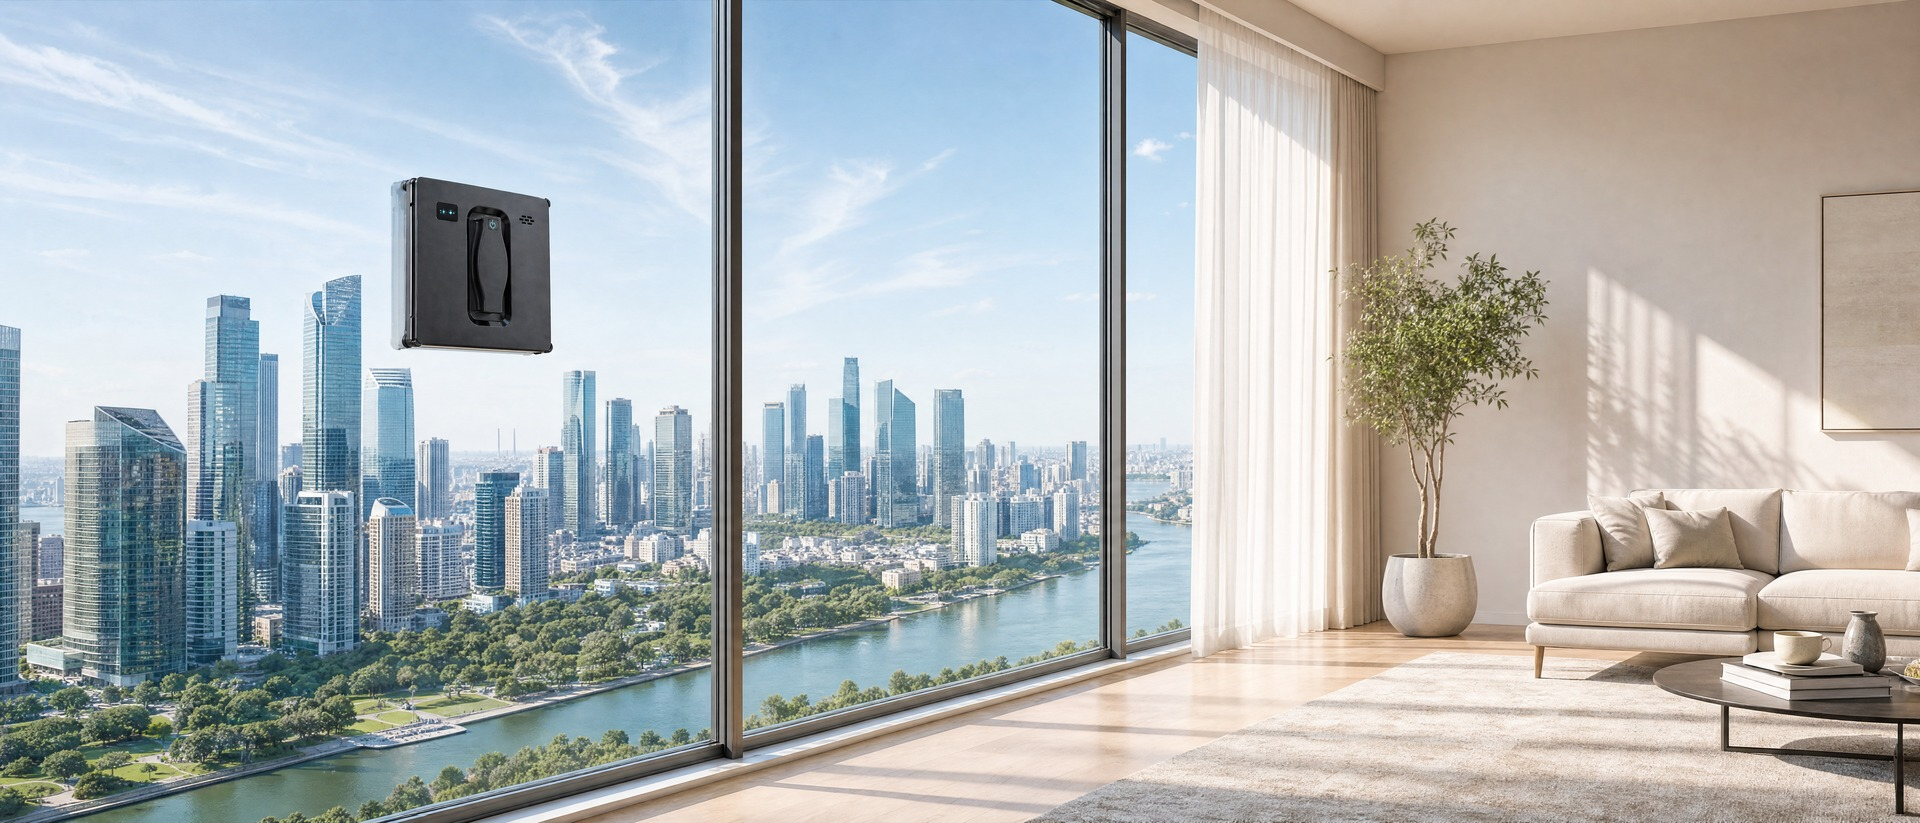
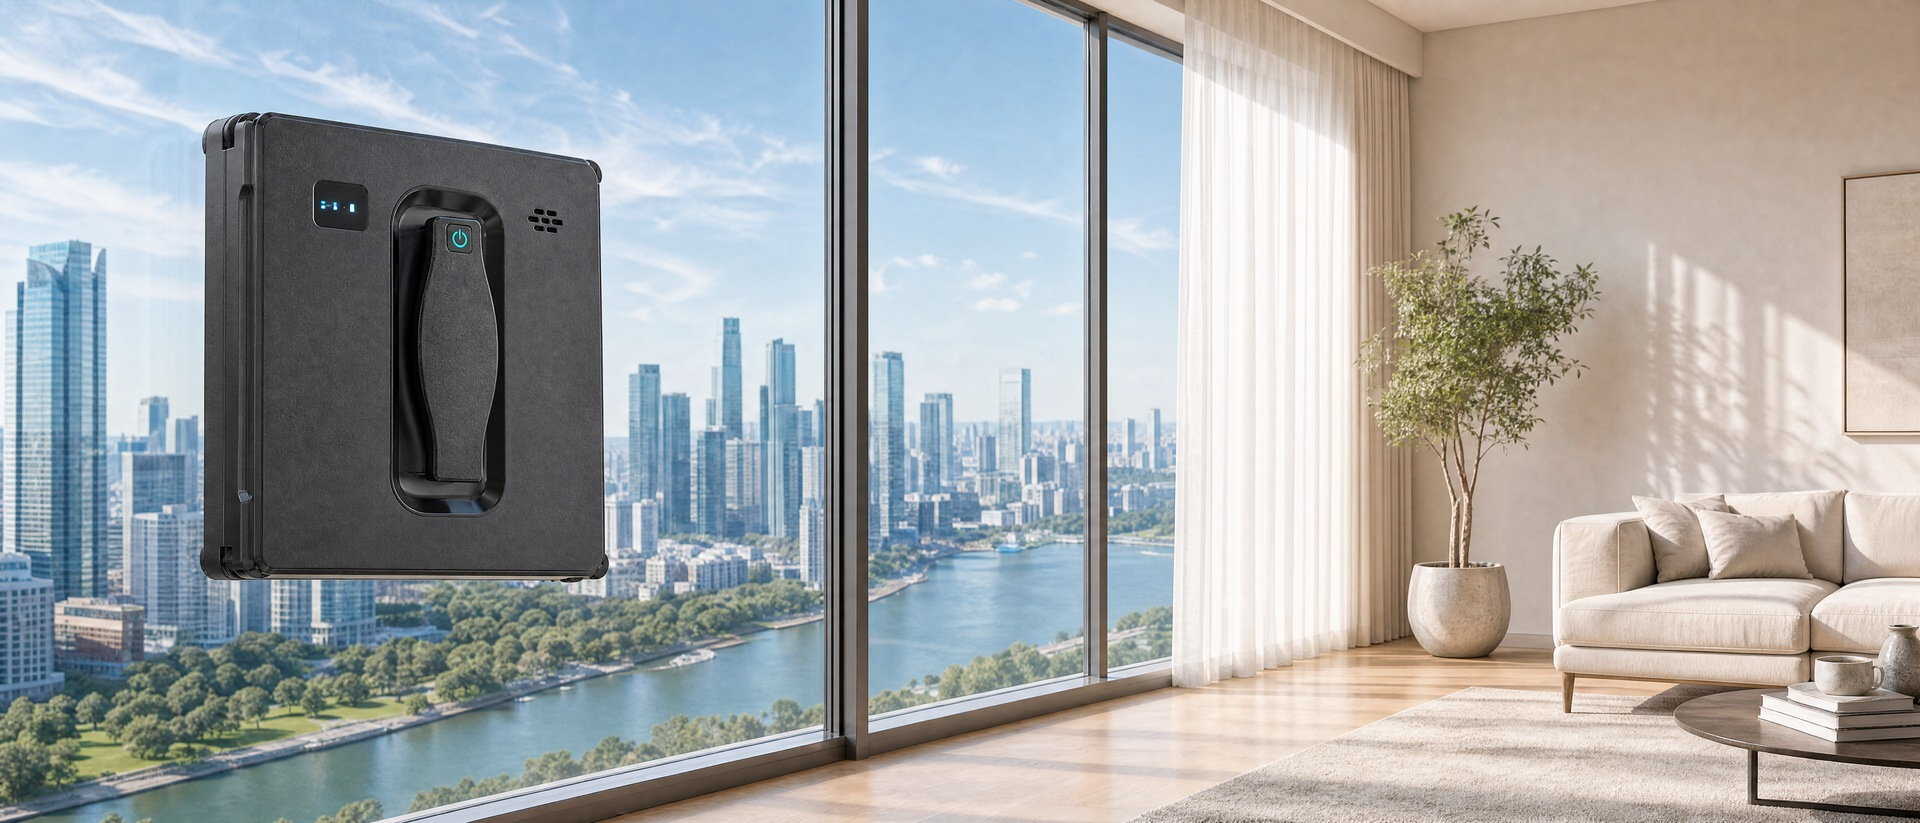
fix(slides): слайд 3 ПК - робот-мойщик крупным планом (был мелкий вдали)
Гена: робот мелкий на большом стекле, приближали только мобильную версию.
Перегенерил (gpt_image_2 21:9 4k): робот close-up, ~24% ширины / 60% высоты,
видно фактуру/ручку/индикаторы, верх на 12% от края. Вид города + место под
текст сохранены. Ресайз 1920x823 без кропа/апскейла. В тему Shopify + ?v= бамп.

diff --git a/preview-live.html b/preview-live.html
@@ -57,40 +57,40 @@
 <section class="glide glide-hero" data-glide-hero data-autoplay-ms="6000" style="background:#0b1418">
   <div class="glide-slides" data-glide-track>
       <div class="glide-slide is-active" data-glide-slide>
-        <div class="glide-slide-bg" style="--img:url('/slides/vacstation.jpg?v=1788422278');--img-m:url('/slides/vacstation-m.jpg?v=1788422278')"></div>
-        <img class="glide-slide-img glide-slide-img--m" src="/slides/vacstation-m.jpg?v=1788422278" alt="" loading="lazy">
+        <div class="glide-slide-bg" style="--img:url('/slides/vacstation.jpg?v=1788423075');--img-m:url('/slides/vacstation-m.jpg?v=1788423075')"></div>
+        <img class="glide-slide-img glide-slide-img--m" src="/slides/vacstation-m.jpg?v=1788423075" alt="" loading="lazy">
         <div class="glide-wrap"><div class="glide-slide-inner">
           <span class="glide-eyebrow">GlideHome Vac Station</span><h2>It empties itself. And washes its own mops</h2><p>Auto-empty, hot-water mop wash and dry — weeks of hands-off cleaning.</p>
           <div class="glide-slide-cta"><a class="glide-btn glide-btn--primary glide-btn--lg" href="#">Shop Vac Station</a><a class="glide-btn glide-btn--on-dark" href="#">See the station</a></div>
         </div></div>
       </div>
       <div class="glide-slide" data-glide-slide>
-        <div class="glide-slide-bg" style="--img:url('/slides/vac.jpg?v=1788422278');--img-m:url('/slides/vac-m.jpg?v=1788422278')"></div>
-        <img class="glide-slide-img glide-slide-img--m" src="/slides/vac-m.jpg?v=1788422278" alt="" loading="lazy">
+        <div class="glide-slide-bg" style="--img:url('/slides/vac.jpg?v=1788423075');--img-m:url('/slides/vac-m.jpg?v=1788423075')"></div>
+        <img class="glide-slide-img glide-slide-img--m" src="/slides/vac-m.jpg?v=1788423075" alt="" loading="lazy">
         <div class="glide-wrap"><div class="glide-slide-inner">
           <span class="glide-eyebrow">GlideHome Vac Slim</span><h2>Now GlideHome does your floors too</h2><p>A slim robot vacuum that sweeps, vacuums and mops in one pass. Maps the room, avoids obstacles.</p>
           <div class="glide-slide-cta"><a class="glide-btn glide-btn--primary glide-btn--lg" href="#">Shop the vacuum</a></div>
         </div></div>
       </div>
       <div class="glide-slide" data-glide-slide>
-        <div class="glide-slide-bg" style="--img:url('/slides/windowpro.jpg?v=1788422278');--img-m:url('/slides/windowpro-m.jpg?v=1788422278')"></div>
-        <img class="glide-slide-img glide-slide-img--m" src="/slides/windowpro-m.jpg?v=1788422278" alt="" loading="lazy">
+        <div class="glide-slide-bg" style="--img:url('/slides/windowpro.jpg?v=1788423075');--img-m:url('/slides/windowpro-m.jpg?v=1788423075')"></div>
+        <img class="glide-slide-img glide-slide-img--m" src="/slides/windowpro-m.jpg?v=1788423075" alt="" loading="lazy">
         <div class="glide-wrap"><div class="glide-slide-inner">
           <span class="glide-eyebrow">GlideHome Window Pro</span><h2>Full-height glass, cleaned on a planned path</h2><p>AI route mapping, edge detection and a climbing-grade safety line — it holds the pane and never misses a spot.</p>
           <div class="glide-slide-cta"><a class="glide-btn glide-btn--primary glide-btn--lg" href="#">Explore window robots</a></div>
         </div></div>
       </div>
       <div class="glide-slide" data-glide-slide>
-        <div class="glide-slide-bg" style="--img:url('/slides/stickvac.jpg?v=1788422278');--img-m:url('/slides/stickvac-m.jpg?v=1788422278')"></div>
-        <img class="glide-slide-img glide-slide-img--m" src="/slides/stickvac-m.jpg?v=1788422278" alt="" loading="lazy">
+        <div class="glide-slide-bg" style="--img:url('/slides/stickvac.jpg?v=1788423075');--img-m:url('/slides/stickvac-m.jpg?v=1788423075')"></div>
+        <img class="glide-slide-img glide-slide-img--m" src="/slides/stickvac-m.jpg?v=1788423075" alt="" loading="lazy">
         <div class="glide-wrap"><div class="glide-slide-inner">
           <span class="glide-eyebrow">GlideHome Stick V400</span><h2>Cordless power that empties itself</h2><p>190 AW suction, 50 minutes of runtime and a self-emptying dock — grab it and go, put it back clean.</p>
           <div class="glide-slide-cta"><a class="glide-btn glide-btn--primary glide-btn--lg" href="#">Shop Stick V400</a></div>
         </div></div>
       </div>
       <div class="glide-slide" data-glide-slide>
-        <div class="glide-slide-bg" style="--img:url('/slides/antimite.jpg?v=1788422278');--img-m:url('/slides/antimite-m.jpg?v=1788422278')"></div>
-        <img class="glide-slide-img glide-slide-img--m" src="/slides/antimite-m.jpg?v=1788422278" alt="" loading="lazy">
+        <div class="glide-slide-bg" style="--img:url('/slides/antimite.jpg?v=1788423075');--img-m:url('/slides/antimite-m.jpg?v=1788423075')"></div>
+        <img class="glide-slide-img glide-slide-img--m" src="/slides/antimite-m.jpg?v=1788423075" alt="" loading="lazy">
         <div class="glide-wrap"><div class="glide-slide-inner">
           <span class="glide-eyebrow">GlideHome Mite Pro</span><h2>A deeper clean for the bed you spend a third of your life in</h2><p>Tapping, UV, 15,500 Pa suction and warm-air drying — with a live dust-mite readout on the display.</p>
           <div class="glide-slide-cta"><a class="glide-btn glide-btn--primary glide-btn--lg" href="#">Shop Mite Pro</a></div>
@@ -102,13 +102,13 @@
   <div class="glide-dots" data-glide-dots></div>
 </section>
 <section class="glide glide-cats-section"><div class="glide-wrap"><div class="glide-cats">
-      <a class="glide-cat" href="#"><div class="glide-cat-art" style="background-image:url('cats/window.jpg?v=1788422278')"></div>
+      <a class="glide-cat" href="#"><div class="glide-cat-art" style="background-image:url('cats/window.jpg?v=1788423075')"></div>
       <div class="glide-cat-body"><h3>Window Robots</h3><span>Climbs the glass, cleans corner to corner</span><span class="glide-cat-go">Shop window robots →</span></div></a>
-      <a class="glide-cat" href="#"><div class="glide-cat-art" style="background-image:url('cats/vacuum.jpg?v=1788422278')"></div>
+      <a class="glide-cat" href="#"><div class="glide-cat-art" style="background-image:url('cats/vacuum.jpg?v=1788423075')"></div>
       <div class="glide-cat-body"><h3>Robot Vacuums</h3><span>Sweeps, vacuums and mops in one pass</span><span class="glide-cat-go">Shop robot vacuums →</span></div></a>
-      <a class="glide-cat" href="#"><div class="glide-cat-art" style="background-image:url('cats/scrubber.jpg?v=1788422278')"></div>
+      <a class="glide-cat" href="#"><div class="glide-cat-art" style="background-image:url('cats/scrubber.jpg?v=1788423075')"></div>
       <div class="glide-cat-body"><h3>Floor Scrubbers</h3><span>Washes and dries hard floors in one pass</span><span class="glide-cat-go">Shop scrubbers →</span></div></a>
-      <a class="glide-cat" href="#"><div class="glide-cat-art" style="background-image:url('cats/handheld.jpg?v=1788422278')"></div>
+      <a class="glide-cat" href="#"><div class="glide-cat-art" style="background-image:url('cats/handheld.jpg?v=1788423075')"></div>
       <div class="glide-cat-body"><h3>Anti-Mite & Handheld</h3><span>Deep-clean beds, sofas and floors</span><span class="glide-cat-go">Shop handheld →</span></div></a>
 </div></div></section>
 <script src="shopify/glide-home.js" defer></script>

diff --git a/preview-shopify.html b/preview-shopify.html
@@ -57,40 +57,40 @@
 <section class="glide glide-hero" data-glide-hero data-autoplay-ms="6000" style="background:#0b1418">
   <div class="glide-slides" data-glide-track>
       <div class="glide-slide is-active" data-glide-slide>
-        <div class="glide-slide-bg" style="--img:url('/slides/vacstation.jpg?v=1788422278');--img-m:url('/slides/vacstation-m.jpg?v=1788422278')"></div>
-        <img class="glide-slide-img glide-slide-img--m" src="/slides/vacstation-m.jpg?v=1788422278" alt="" loading="lazy">
+        <div class="glide-slide-bg" style="--img:url('/slides/vacstation.jpg?v=1788423075');--img-m:url('/slides/vacstation-m.jpg?v=1788423075')"></div>
+        <img class="glide-slide-img glide-slide-img--m" src="/slides/vacstation-m.jpg?v=1788423075" alt="" loading="lazy">
         <div class="glide-wrap"><div class="glide-slide-inner">
           <span class="glide-eyebrow">GlideHome Vac Station</span><h2>It empties itself. And washes its own mops</h2><p>Auto-empty, hot-water mop wash and dry — weeks of hands-off cleaning.</p>
           <div class="glide-slide-cta"><a class="glide-btn glide-btn--primary glide-btn--lg" href="#">Shop Vac Station</a><a class="glide-btn glide-btn--on-dark" href="#">See the station</a></div>
         </div></div>
       </div>
       <div class="glide-slide" data-glide-slide>
-        <div class="glide-slide-bg" style="--img:url('/slides/vac.jpg?v=1788422278');--img-m:url('/slides/vac-m.jpg?v=1788422278')"></div>
-        <img class="glide-slide-img glide-slide-img--m" src="/slides/vac-m.jpg?v=1788422278" alt="" loading="lazy">
+        <div class="glide-slide-bg" style="--img:url('/slides/vac.jpg?v=1788423075');--img-m:url('/slides/vac-m.jpg?v=1788423075')"></div>
+        <img class="glide-slide-img glide-slide-img--m" src="/slides/vac-m.jpg?v=1788423075" alt="" loading="lazy">
         <div class="glide-wrap"><div class="glide-slide-inner">
           <span class="glide-eyebrow">GlideHome Vac Slim</span><h2>Now GlideHome does your floors too</h2><p>A slim robot vacuum that sweeps, vacuums and mops in one pass. Maps the room, avoids obstacles.</p>
           <div class="glide-slide-cta"><a class="glide-btn glide-btn--primary glide-btn--lg" href="#">Shop the vacuum</a></div>
         </div></div>
       </div>
       <div class="glide-slide" data-glide-slide>
-        <div class="glide-slide-bg" style="--img:url('/slides/windowpro.jpg?v=1788422278');--img-m:url('/slides/windowpro-m.jpg?v=1788422278')"></div>
-        <img class="glide-slide-img glide-slide-img--m" src="/slides/windowpro-m.jpg?v=1788422278" alt="" loading="lazy">
+        <div class="glide-slide-bg" style="--img:url('/slides/windowpro.jpg?v=1788423075');--img-m:url('/slides/windowpro-m.jpg?v=1788423075')"></div>
+        <img class="glide-slide-img glide-slide-img--m" src="/slides/windowpro-m.jpg?v=1788423075" alt="" loading="lazy">
         <div class="glide-wrap"><div class="glide-slide-inner">
           <span class="glide-eyebrow">GlideHome Window Pro</span><h2>Full-height glass, cleaned on a planned path</h2><p>AI route mapping, edge detection and a climbing-grade safety line — it holds the pane and never misses a spot.</p>
           <div class="glide-slide-cta"><a class="glide-btn glide-btn--primary glide-btn--lg" href="#">Explore window robots</a></div>
         </div></div>
       </div>
       <div class="glide-slide" data-glide-slide>
-        <div class="glide-slide-bg" style="--img:url('/slides/stickvac.jpg?v=1788422278');--img-m:url('/slides/stickvac-m.jpg?v=1788422278')"></div>
-        <img class="glide-slide-img glide-slide-img--m" src="/slides/stickvac-m.jpg?v=1788422278" alt="" loading="lazy">
+        <div class="glide-slide-bg" style="--img:url('/slides/stickvac.jpg?v=1788423075');--img-m:url('/slides/stickvac-m.jpg?v=1788423075')"></div>
+        <img class="glide-slide-img glide-slide-img--m" src="/slides/stickvac-m.jpg?v=1788423075" alt="" loading="lazy">
         <div class="glide-wrap"><div class="glide-slide-inner">
           <span class="glide-eyebrow">GlideHome Stick V400</span><h2>Cordless power that empties itself</h2><p>190 AW suction, 50 minutes of runtime and a self-emptying dock — grab it and go, put it back clean.</p>
           <div class="glide-slide-cta"><a class="glide-btn glide-btn--primary glide-btn--lg" href="#">Shop Stick V400</a></div>
         </div></div>
       </div>
       <div class="glide-slide" data-glide-slide>
-        <div class="glide-slide-bg" style="--img:url('/slides/antimite.jpg?v=1788422278');--img-m:url('/slides/antimite-m.jpg?v=1788422278')"></div>
-        <img class="glide-slide-img glide-slide-img--m" src="/slides/antimite-m.jpg?v=1788422278" alt="" loading="lazy">
+        <div class="glide-slide-bg" style="--img:url('/slides/antimite.jpg?v=1788423075');--img-m:url('/slides/antimite-m.jpg?v=1788423075')"></div>
+        <img class="glide-slide-img glide-slide-img--m" src="/slides/antimite-m.jpg?v=1788423075" alt="" loading="lazy">
         <div class="glide-wrap"><div class="glide-slide-inner">
           <span class="glide-eyebrow">GlideHome Mite Pro</span><h2>A deeper clean for the bed you spend a third of your life in</h2><p>Tapping, UV, 15,500 Pa suction and warm-air drying — with a live dust-mite readout on the display.</p>
           <div class="glide-slide-cta"><a class="glide-btn glide-btn--primary glide-btn--lg" href="#">Shop Mite Pro</a></div>
@@ -102,13 +102,13 @@
   <div class="glide-dots" data-glide-dots></div>
 </section>
 <section class="glide glide-cats-section"><div class="glide-wrap"><div class="glide-cats">
-      <a class="glide-cat" href="#"><div class="glide-cat-art" style="background-image:url('cats/window.jpg?v=1788422278')"></div>
+      <a class="glide-cat" href="#"><div class="glide-cat-art" style="background-image:url('cats/window.jpg?v=1788423075')"></div>
       <div class="glide-cat-body"><h3>Window Robots</h3><span>Climbs the glass, cleans corner to corner</span><span class="glide-cat-go">Shop window robots →</span></div></a>
-      <a class="glide-cat" href="#"><div class="glide-cat-art" style="background-image:url('cats/vacuum.jpg?v=1788422278')"></div>
+      <a class="glide-cat" href="#"><div class="glide-cat-art" style="background-image:url('cats/vacuum.jpg?v=1788423075')"></div>
       <div class="glide-cat-body"><h3>Robot Vacuums</h3><span>Sweeps, vacuums and mops in one pass</span><span class="glide-cat-go">Shop robot vacuums →</span></div></a>
-      <a class="glide-cat" href="#"><div class="glide-cat-art" style="background-image:url('cats/scrubber.jpg?v=1788422278')"></div>
+      <a class="glide-cat" href="#"><div class="glide-cat-art" style="background-image:url('cats/scrubber.jpg?v=1788423075')"></div>
       <div class="glide-cat-body"><h3>Floor Scrubbers</h3><span>Washes and dries hard floors in one pass</span><span class="glide-cat-go">Shop scrubbers →</span></div></a>
-      <a class="glide-cat" href="#"><div class="glide-cat-art" style="background-image:url('cats/handheld.jpg?v=1788422278')"></div>
+      <a class="glide-cat" href="#"><div class="glide-cat-art" style="background-image:url('cats/handheld.jpg?v=1788423075')"></div>
       <div class="glide-cat-body"><h3>Anti-Mite & Handheld</h3><span>Deep-clean beds, sofas and floors</span><span class="glide-cat-go">Shop handheld →</span></div></a>
 </div></div></section>
 <script src="shopify/glide-home.js" defer></script>
